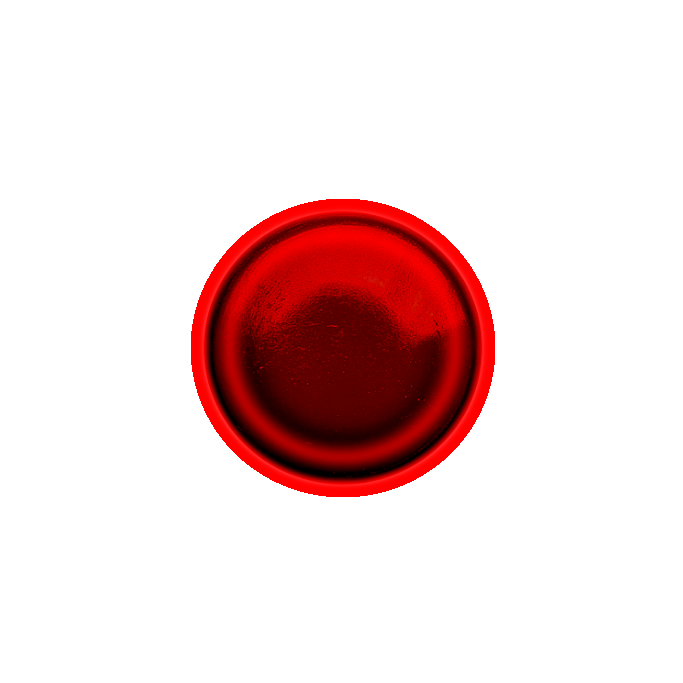
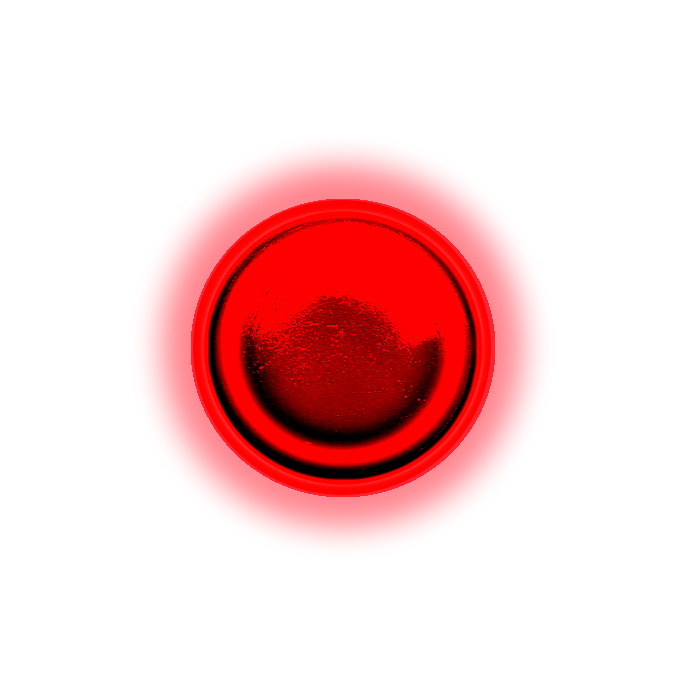
scram staged

Changed region(s): [[0.2152, 0.2152, 0.7994, 0.7994]]

diff --git a/client/src/components/ScramButton.tsx b/client/src/components/ScramButton.tsx
@@ -1,0 +1,32 @@
+// client/src/components/ScramButton.tsx
+import React, { useState } from 'react';
+import '../css/components/ScramButton.css';
+
+import bezel from '../images/e-stop_bezel.png';
+import buttonOut from '../images/e-stop_out.png';
+import buttonIn from '../images/e-stop_in.png';
+
+interface ScramButtonProps {
+  x: number;
+  y: number;
+}
+
+export default function ScramButton({ x, y }: ScramButtonProps) {
+  const [pressed, setPressed] = useState(false);
+
+  return (
+    <div
+      className="scram-button-wrapper"
+      style={{ left: `${x}px`, top: `${y}px` }}
+      onClick={() => setPressed((prev) => !prev)}
+      tabIndex={-1}
+    >
+      <img src={bezel} className="scram-button-img" alt="Scram bezel" />
+      <img
+        src={pressed ? buttonIn : buttonOut}
+        className="scram-button-overlay"
+        alt={pressed ? 'Pressed in' : 'Raised'}
+      />
+    </div>
+  );
+}

diff --git a/client/src/App.tsx b/client/src/App.tsx
@@ -2,6 +2,7 @@ import Panel from './components/Panel';
 import ConditionPanel from './components/ConditionPanel';
 import ButtonPanel from './components/ButtonPanel';
 import MasterButton from './components/MasterButton';
+import ScramButton from './components/ScramButton';
 import MeterRow from './components/MeterRow';
 
 function App() {
@@ -51,6 +52,7 @@ function App() {
           ]}
         />
         <MasterButton x={120} y={580} />
+        <ScramButton x={280} y={580} />
         <MeterRow
           x={540}
           y={390}

diff --git a/client/src/css/components/ScramButton.css b/client/src/css/components/ScramButton.css
@@ -1,0 +1,21 @@
+/* client/src/css/components/ScramButton.css */
+.scram-button-wrapper {
+    position: absolute;
+    transform: translate(-50%, -50%);
+    width: 150px;
+    height: 150px;
+    cursor: pointer;
+    outline: none;
+    -webkit-tap-highlight-color: transparent;
+  }
+  
+  .scram-button-img,
+  .scram-button-overlay {
+    position: absolute;
+    top: 0;
+    left: 0;
+    width: 100%;
+    height: 100%;
+    pointer-events: none;
+  }
+  
